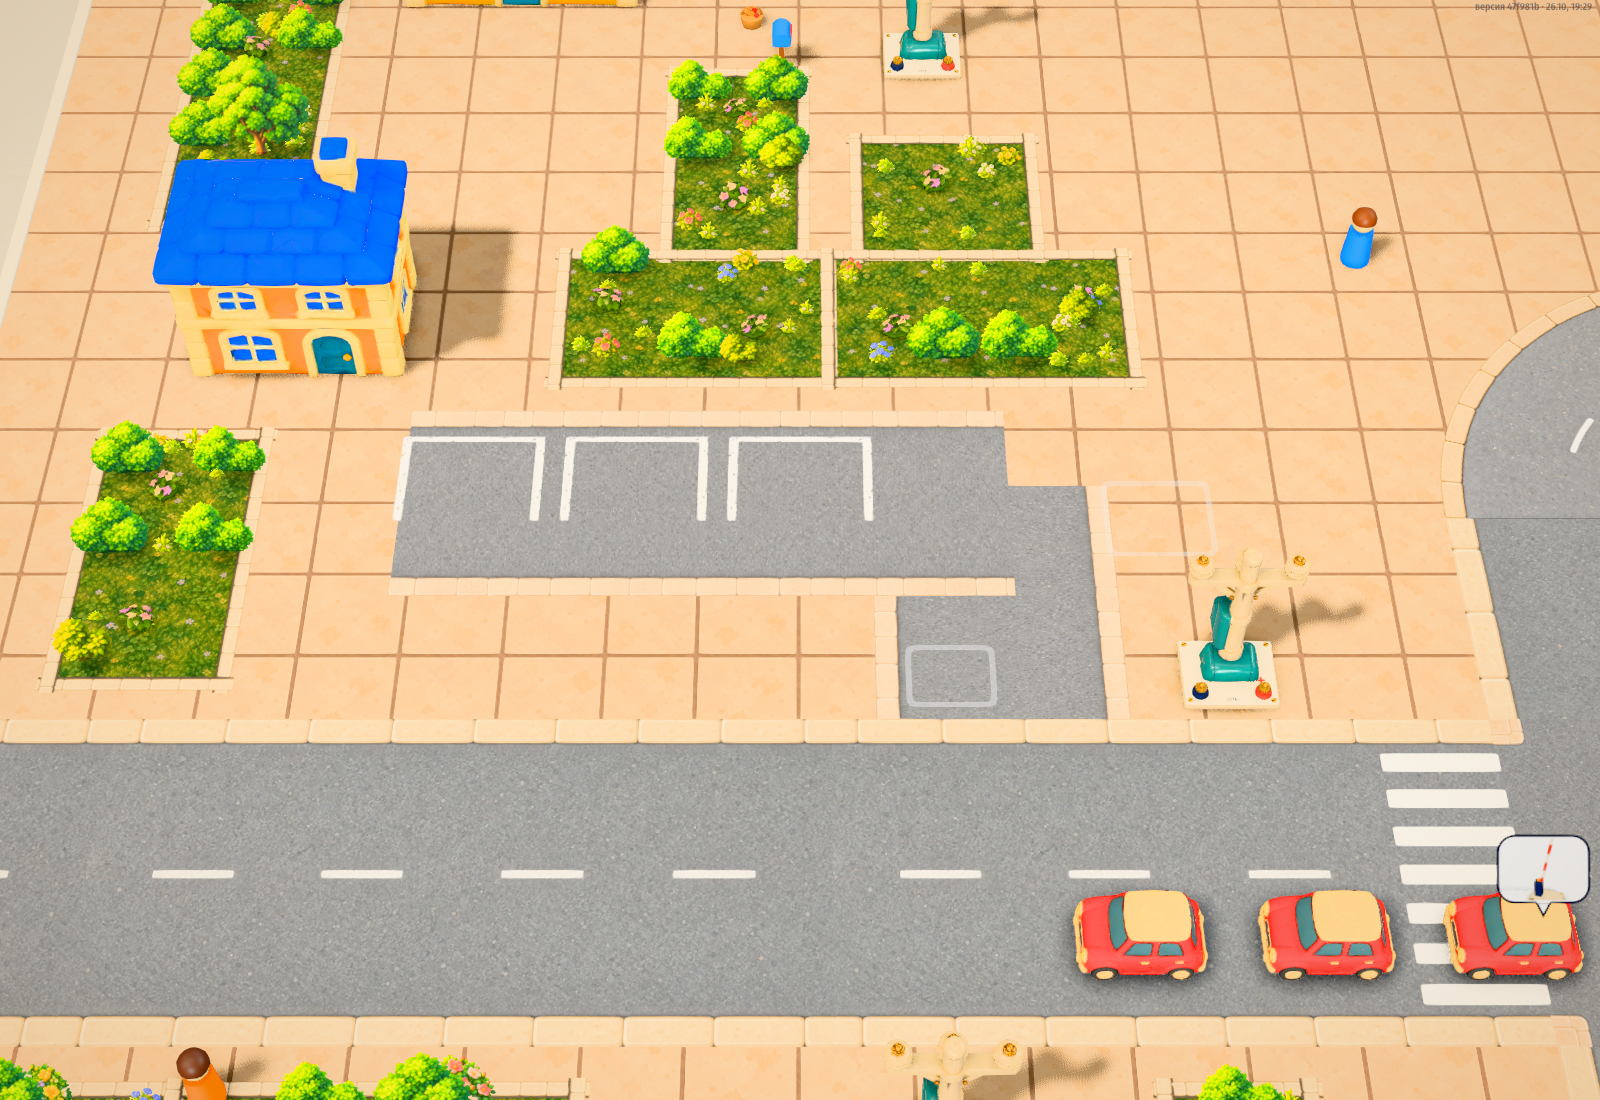
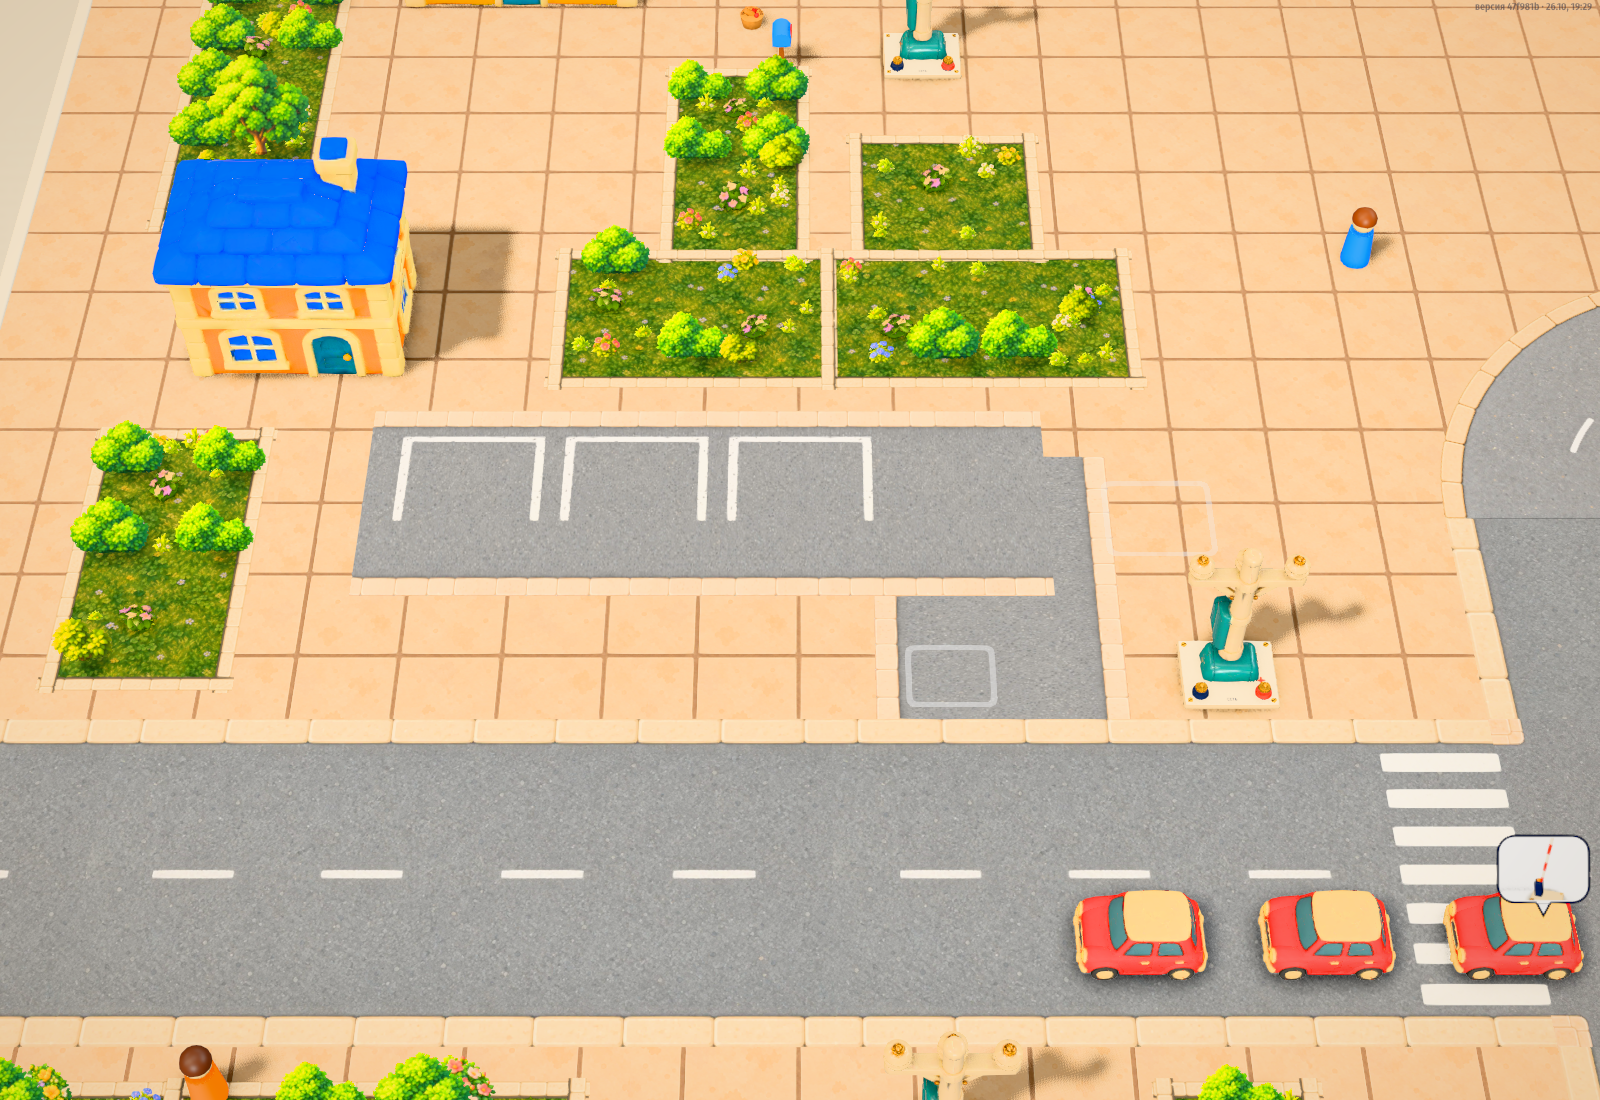
City kit: the drive's asphalt runs past the last parking bay

diff --git a/src/city.ts b/src/city.ts
@@ -355,7 +355,8 @@ export class CityMap extends StoryMap {
     const rails = kitPieces('city', 'tram-rails-strip', true);
     const tram = plan.lanes.filter((l) => l.w !== ROAD && l.pts.every(([, z]) => z === TRAM_Z));
     const drives = plan.lanes.filter((l) => l.w !== ROAD && !tram.includes(l));
-    if (narrow.length) this.scenery.add(ribbons(rails.length ? drives : [...drives, ...tram], narrow[0], 5 / 4, 10, 0.0055, 1, 0.1));
+    // The drives run a little past their ends, so the last parking bay keeps asphalt beyond its line.
+    if (narrow.length) this.scenery.add(ribbons(rails.length ? drives : [...drives, ...tram], narrow[0], 5 / 4, 10, 0.0055, 1, 0.3));
     if (rails.length) this.scenery.add(ribbons(tram, rails[0], 1, 8, 0.0055, 1, 0.1));
     // Painted bays where the cars park.
     const bay = kitPieces('city', 'parking-bay');
